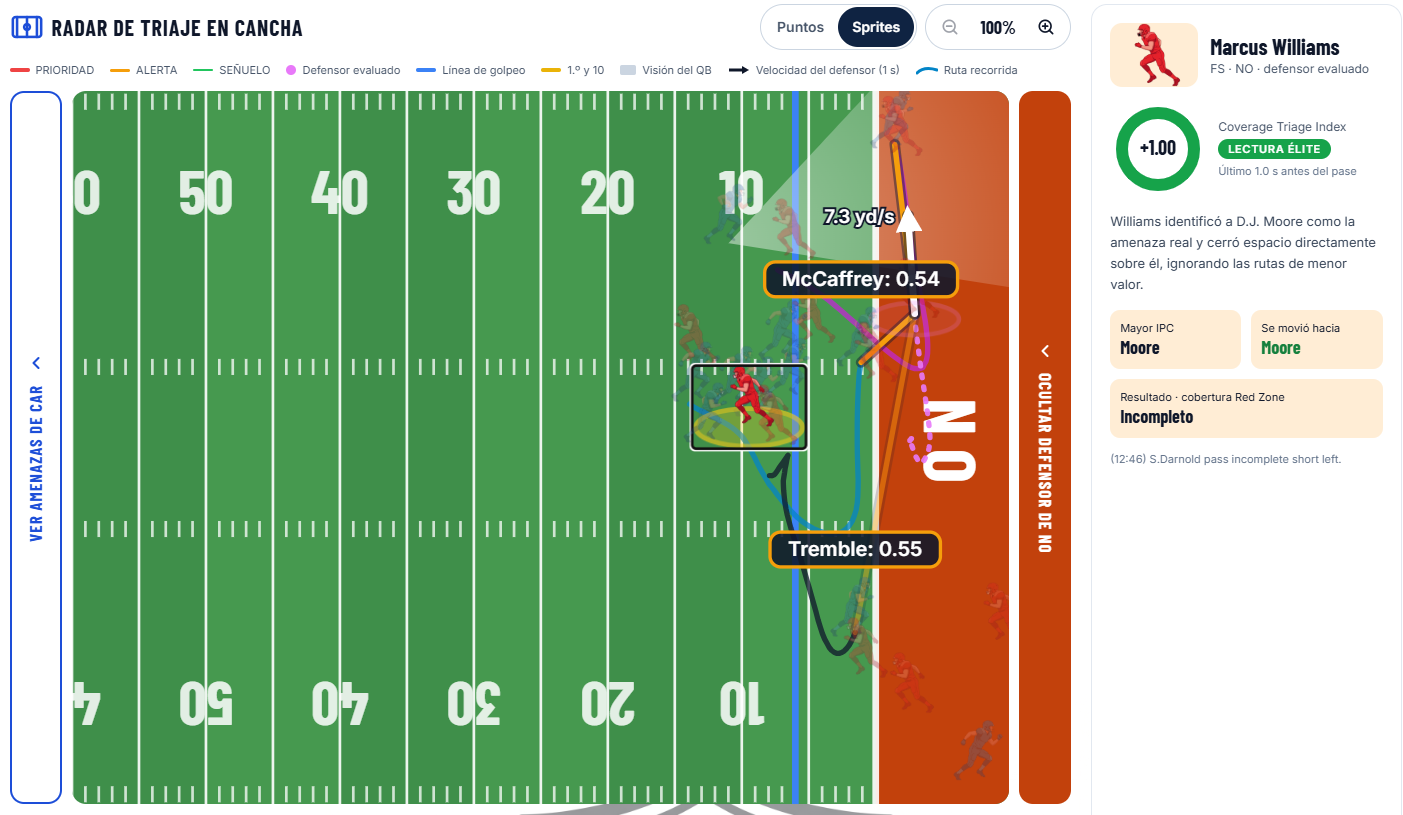
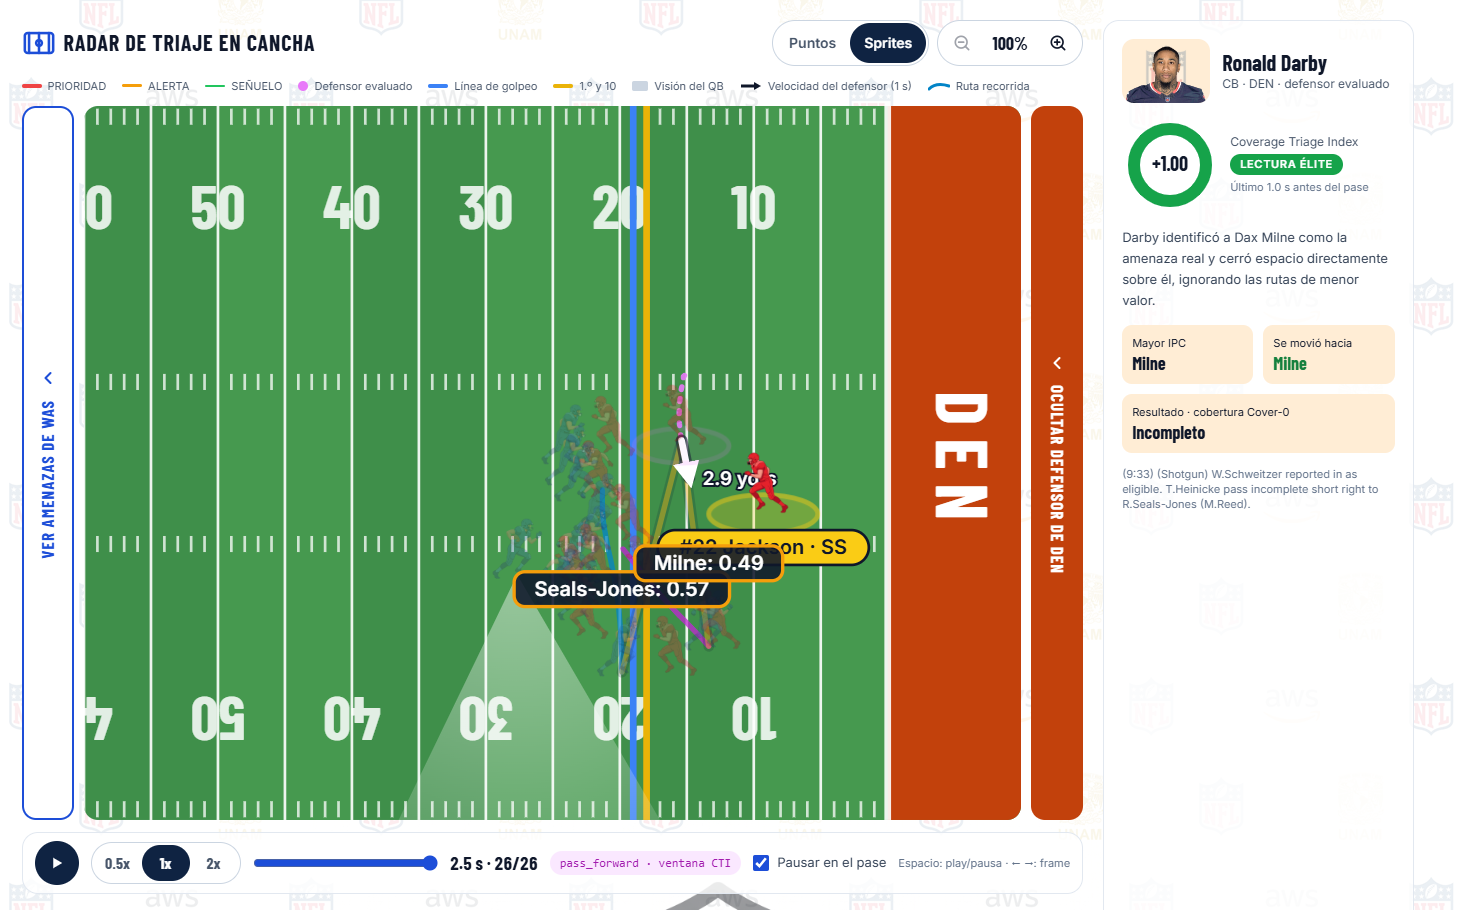
Agrega ENTREGA.md y actualiza captura

diff --git a/.hackathon/ENTREGA.md b/.hackathon/ENTREGA.md
@@ -1,0 +1,11 @@
+# Entrega: hackathon-unam
+
+- Generado: 2026-11-18 12:34 (windows x64)
+- Stack verificado: Python 3.12.12, Node 22.23.1, uv 0.11.19
+- Dashboard compilado: sí (dashboard/dist)
+- Backend: se importa sin errores
+- Archivos incluidos: 193 (832.3 MB sin comprimir)
+- Desviaciones del stack: ninguna
+
+## Cómo ejecutarlo
+Ver INSTALACION.md del evento. Backend: `uvicorn backend.main:app`. Dashboard: `cd dashboard && npm ci && npm run dev`.
